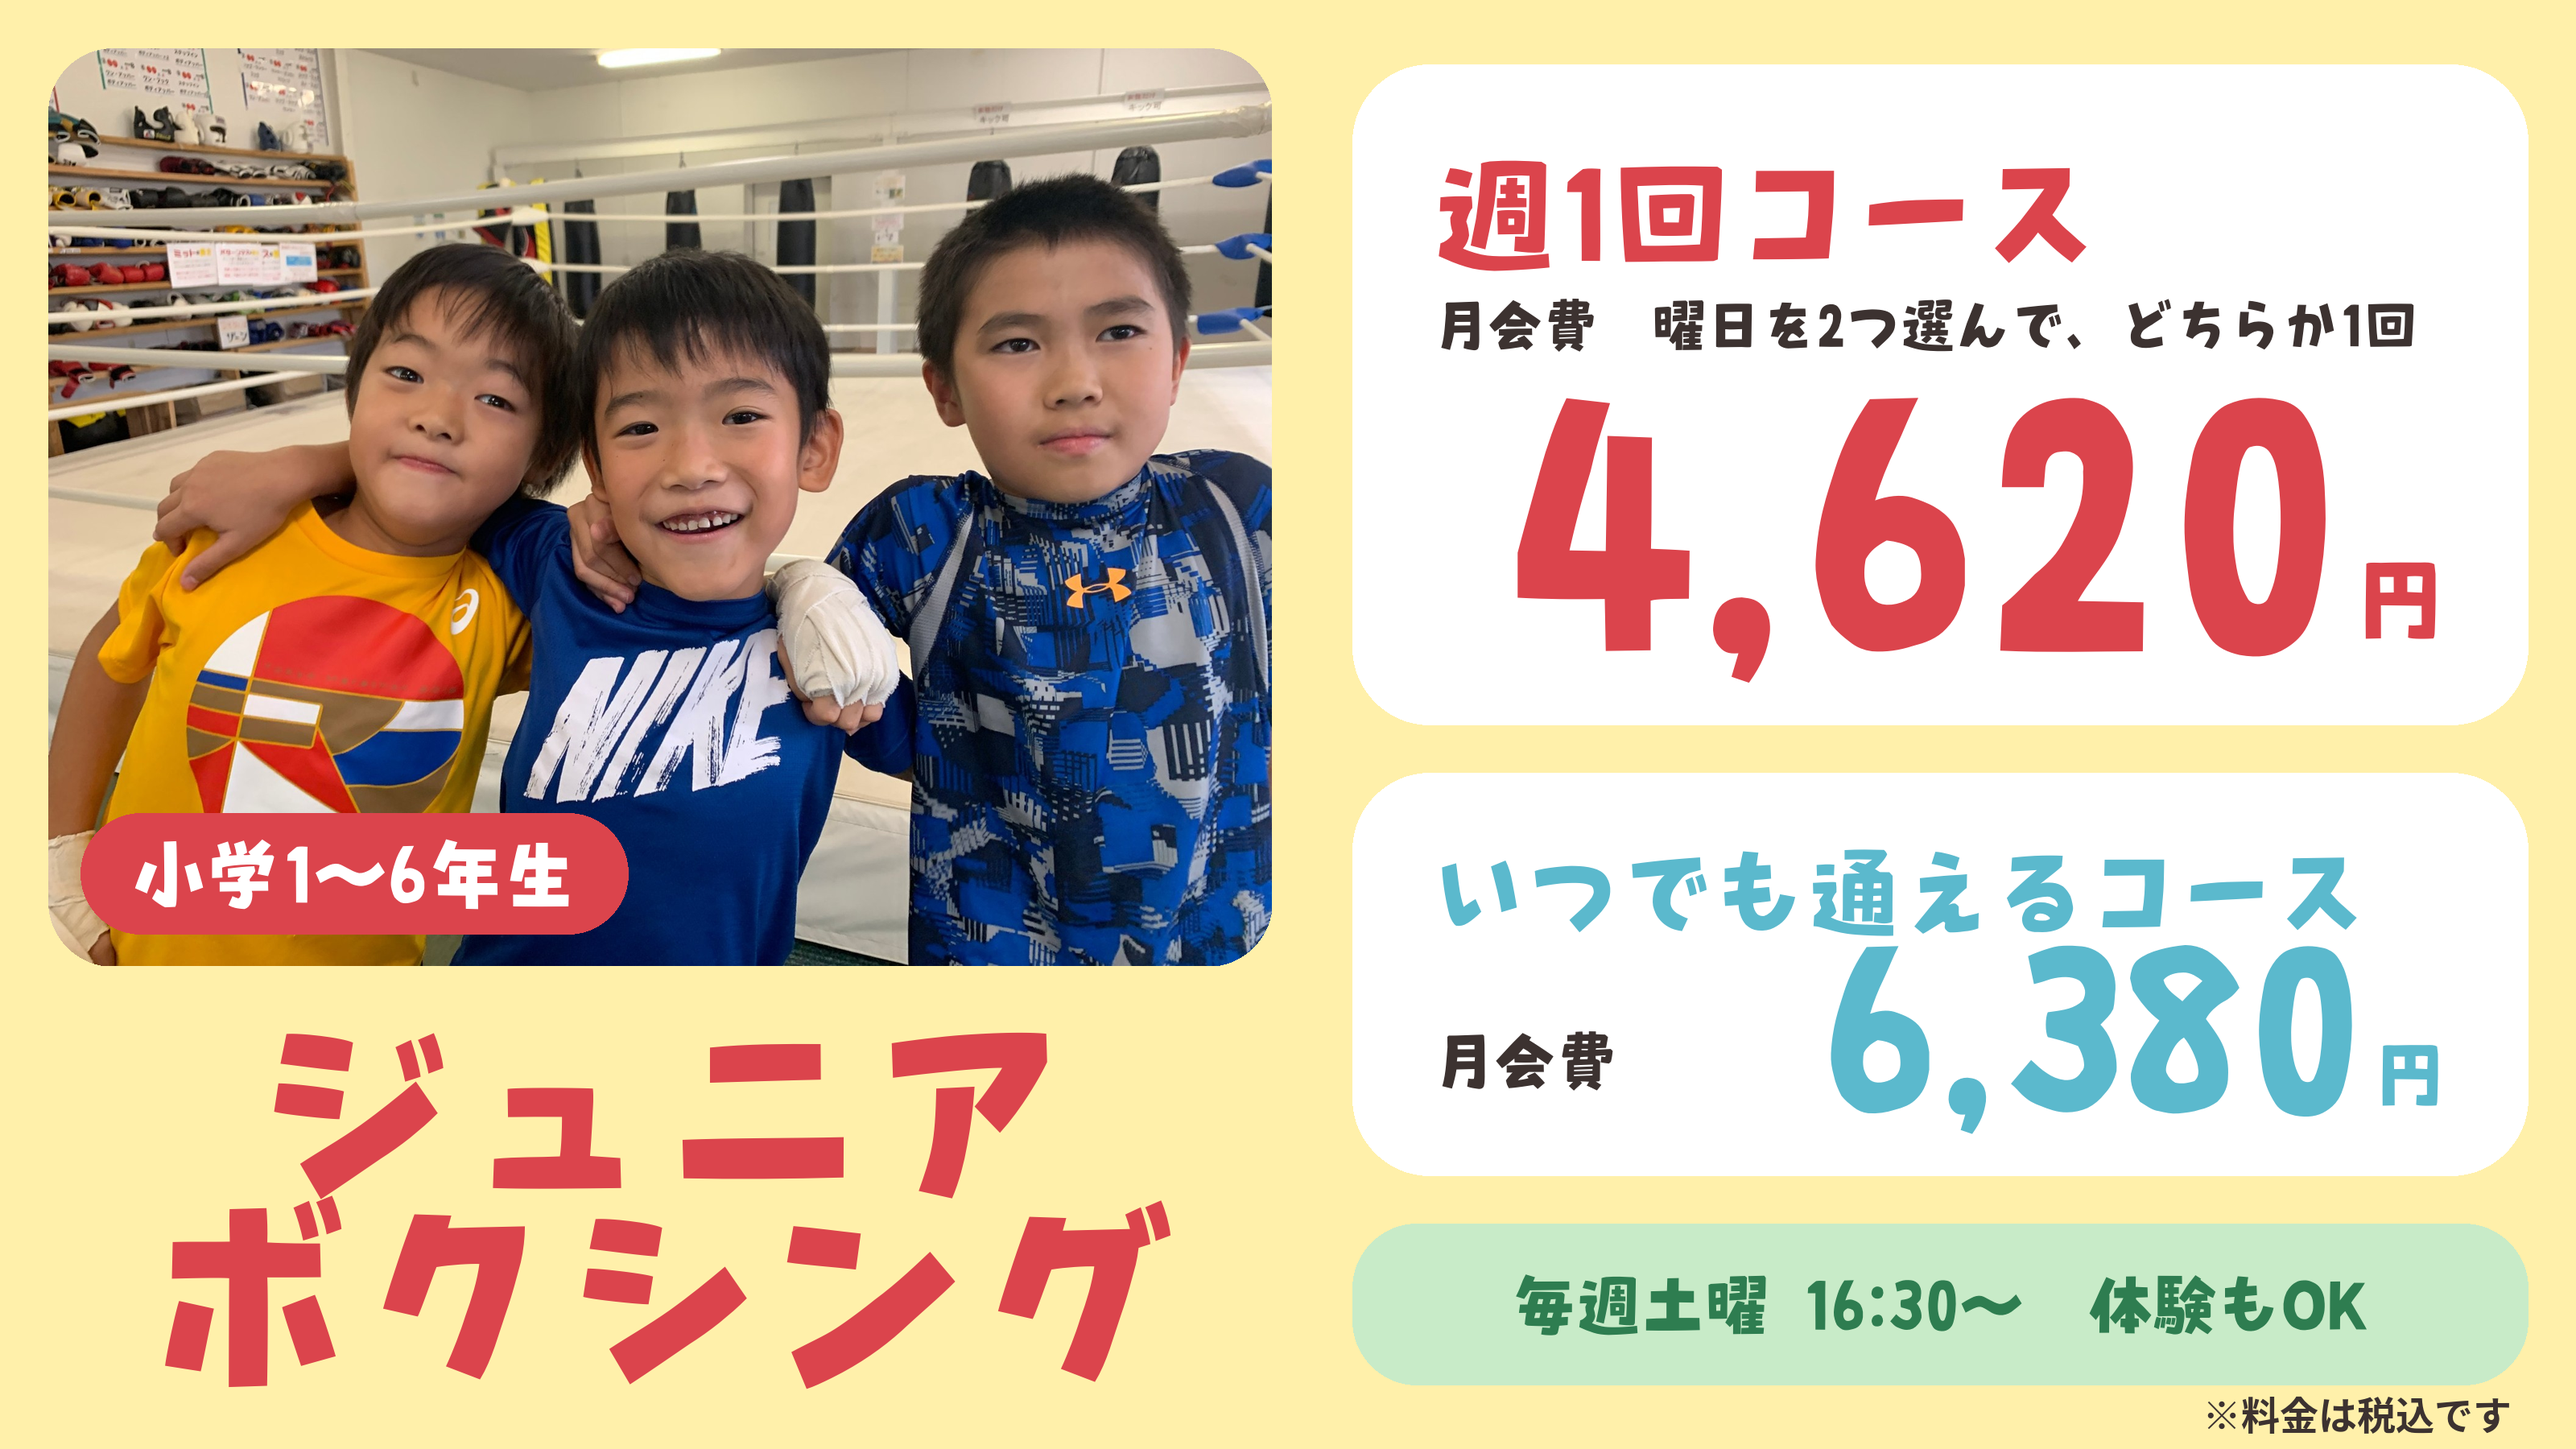
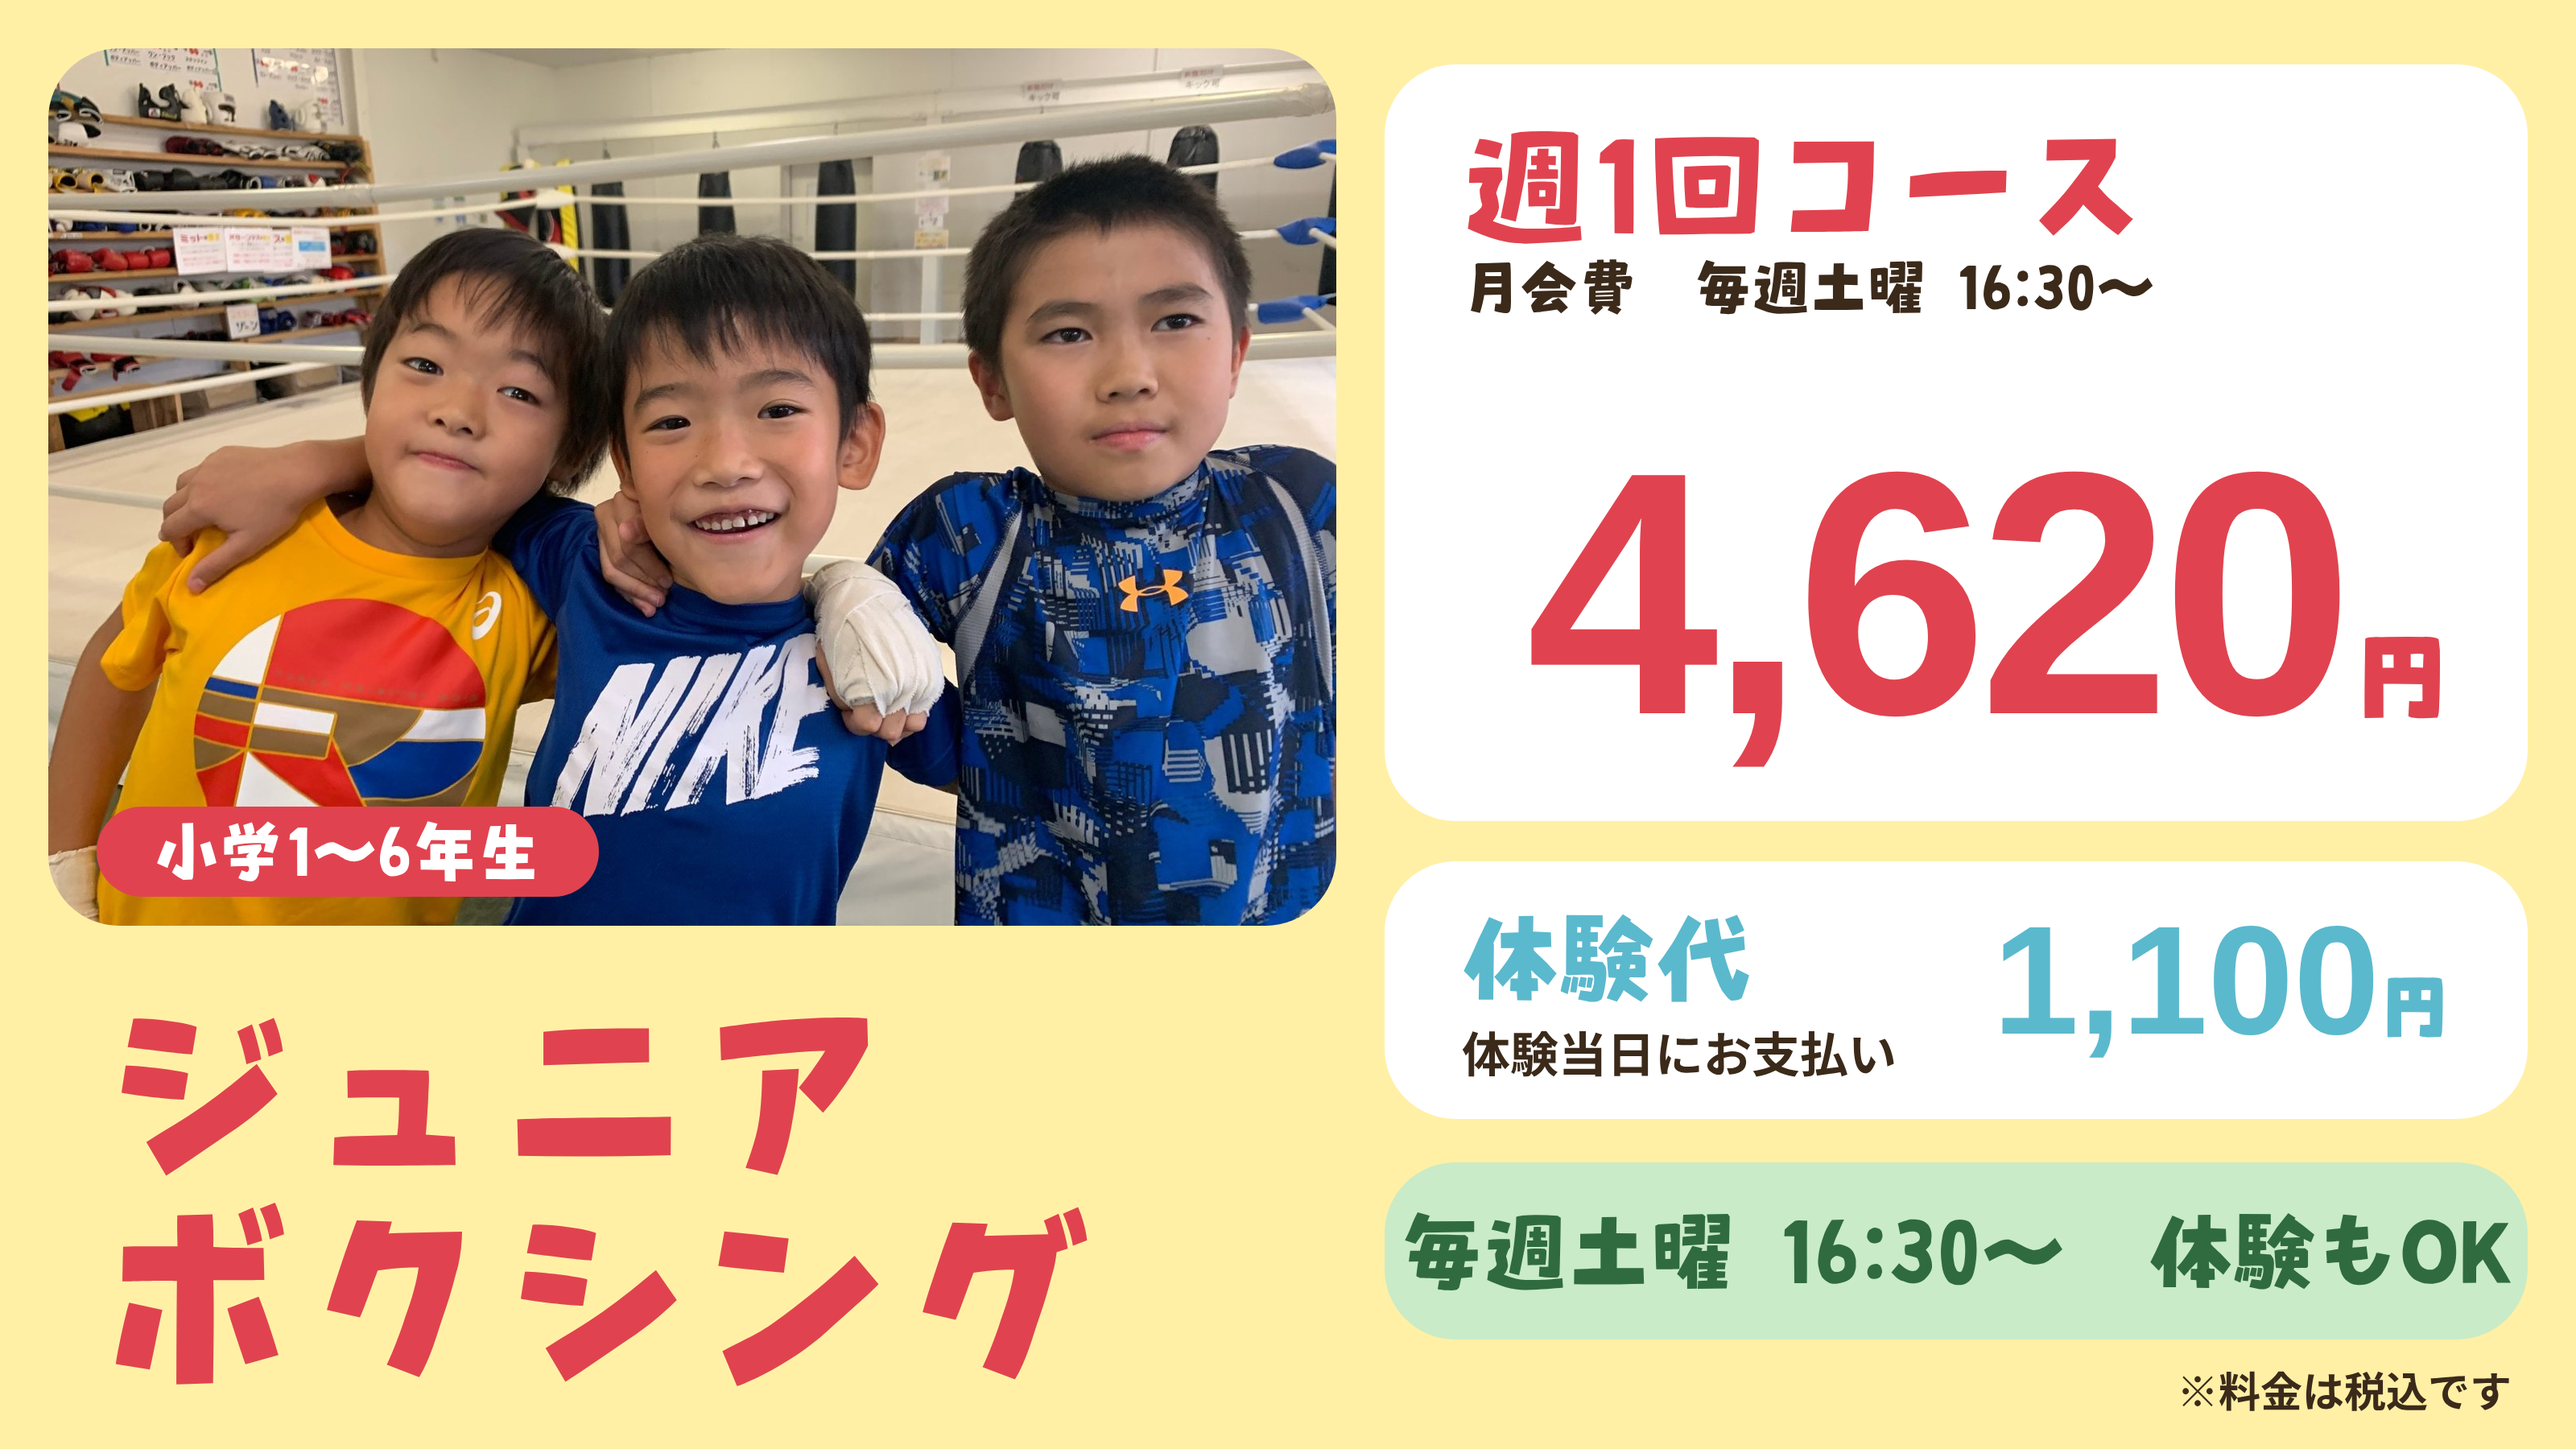
予約画面: ジュニアの料金POPを週1回4,620円（毎週土曜）だけに変更
Claude-Session: https://claude.ai/code/session_01XgjijzwJNdBSjm7EqaASmq

diff --git a/onebalance-v9.html b/onebalance-v9.html
@@ -176,7 +176,7 @@ main { max-width:480px; margin:0 auto; padding:18px 14px 100px; }
 <div class="mc junior" id="mc-junior" onclick="pickMenu('junior')">
 <div class="mc-head"><img class="mc-ico" src="images/course-junior.jpg" alt=""><div style="flex:1"><div class="mc-nm">ジュニアボクシング体験</div><div class="mc-badges"><span class="bdg">小学1〜6年生</span><span class="bdg">毎週土曜 16:30</span><span class="bdg bdg-price">週1回 ¥4,620〜</span></div></div><div class="mc-chk" id="chk-junior"></div></div>
 <div class="mc-body">礼儀・あいさつ・仲間と協力することを、ボクシングを通して学ぶジュニアクラスです。体験には保護者の方の同意が必要です。専用ページへ移動します。</div>
-<div class="jr-pop"><img src="images/junior-price.png?v=20261117" alt="ジュニアボクシングの月会費：週1回コース4,620円、いつでも通えるコース6,380円（税込）"></div>
+<div class="jr-pop"><img src="images/junior-price.png?v=20261118" alt="ジュニアボクシングの月会費：週1回コース4,620円（毎週土曜16:30〜）、体験代1,100円（税込）"></div>
 </div>
 <div class="mc kick" id="mc-kick" onclick="pickMenu('kick')">
 <div class="mc-head"><img class="mc-ico" src="images/course-kick.jpg" alt=""><div style="flex:1"><div class="mc-nm">キックボクササイズ体験</div><div class="mc-badges"><span class="bdg">体験時間30分</span><span class="bdg bdg-price">¥1,100</span></div></div><div class="mc-chk" id="chk-kick"></div></div>
